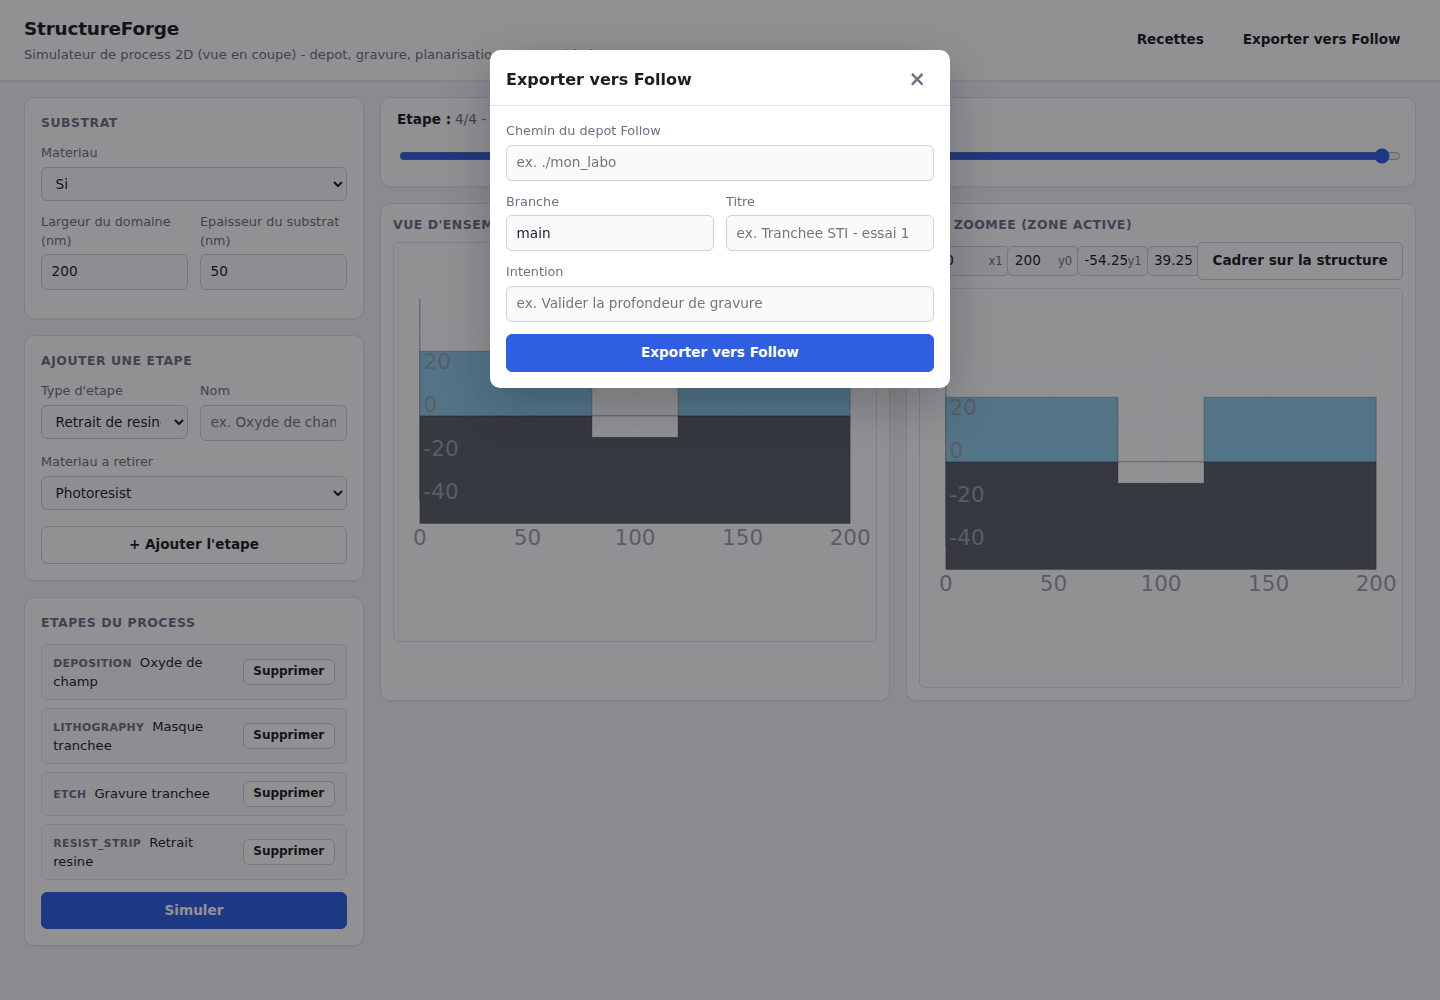
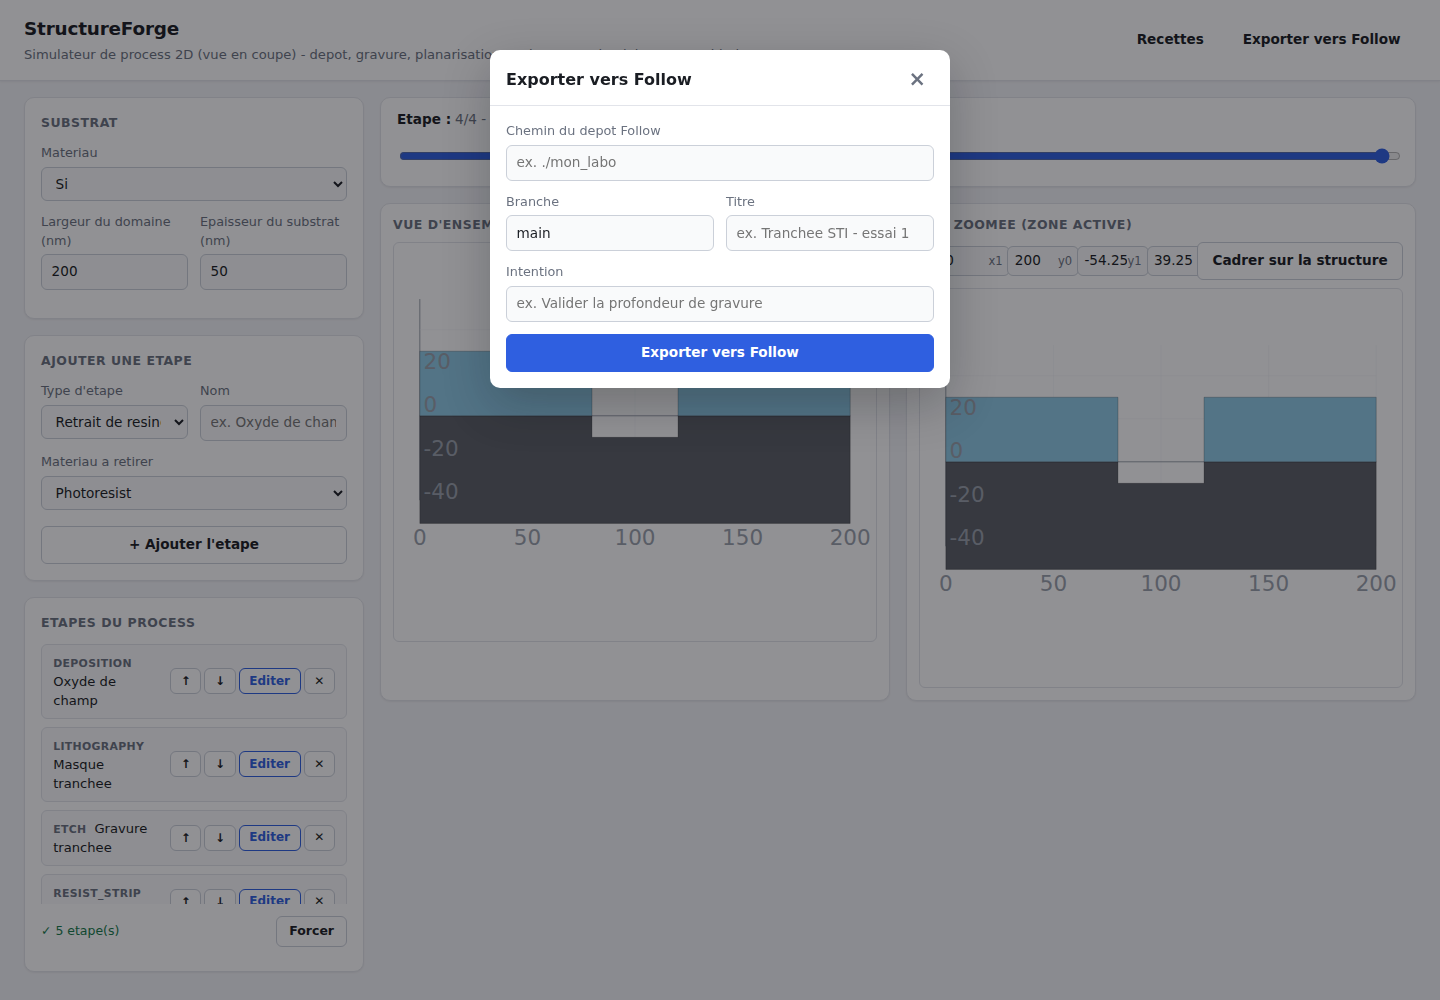
Refresh stale GUI screenshots and docs/interface.md
Four of the five screenshots predated the auto-simulation/step-editing
rework and the EpitaxialGrowth/FacetedGrowth GUI support (both visible in
the live app's header subtitle and step-list buttons, which the old
captures didn't show). Regenerated all four end-to-end with Playwright
against the running app (STI quickstart flow), and updated
docs/interface.md's step-list/toolbar description to match: step kinds
now include epitaxial/faceted growth, and steps are reordered/edited/
removed with dedicated buttons instead of a manual Simuler click.

Claude-Session: https://claude.ai/code/session_01PuEbpuT6M2ztVucw2g2xay

Changed region(s): [[0.0312, 0.682, 0.25, 0.93], [0.0938, 0.651, 0.2188, 0.682]]

diff --git a/docs/interface.md b/docs/interface.md
@@ -26,11 +26,15 @@ fenêtres modales (voir plus bas).
 La sidebar empile trois panneaux :
 
 1. **Substrat** - matériau, largeur du domaine et épaisseur du substrat.
-2. **Ajouter une étape** - le type d'étape choisi (dépôt, gravure, planarisation, lithographie,
-   retrait de résine, étape chimique) fait apparaître les champs propres à ce type (matériau,
-   recette, épaisseur, angle, ouvertures de masque...).
-3. **Étapes du process** - la liste ordonnée des étapes déjà ajoutées (avec suppression
-   individuelle), et le bouton **Simuler** qui déclenche le calcul de toutes les frames.
+2. **Ajouter une étape** - le type d'étape choisi (dépôt, gravure, croissance épitaxiale (SAG),
+   croissance facettée (Wulff plan C/M/semi-polaire), planarisation, lithographie, retrait de
+   résine, étape chimique) fait apparaître les champs propres à ce type (matériau, recette,
+   épaisseur, angle, orientation cristalline, ouvertures de masque...).
+3. **Étapes du process** - la liste ordonnée des étapes déjà ajoutées, avec par étape un
+   déplacement (`↑`/`↓`), une modification (**Editer** - recharge ses valeurs dans le formulaire
+   ci-dessus) et une suppression (`×`). La simulation se relance automatiquement à chaque
+   changement (statut affiché à côté, ex. « ✓ 5 étape(s) ») ; le bouton **Forcer** relance le
+   calcul manuellement si besoin.
 
 ### Épaisseur dérivée
 
